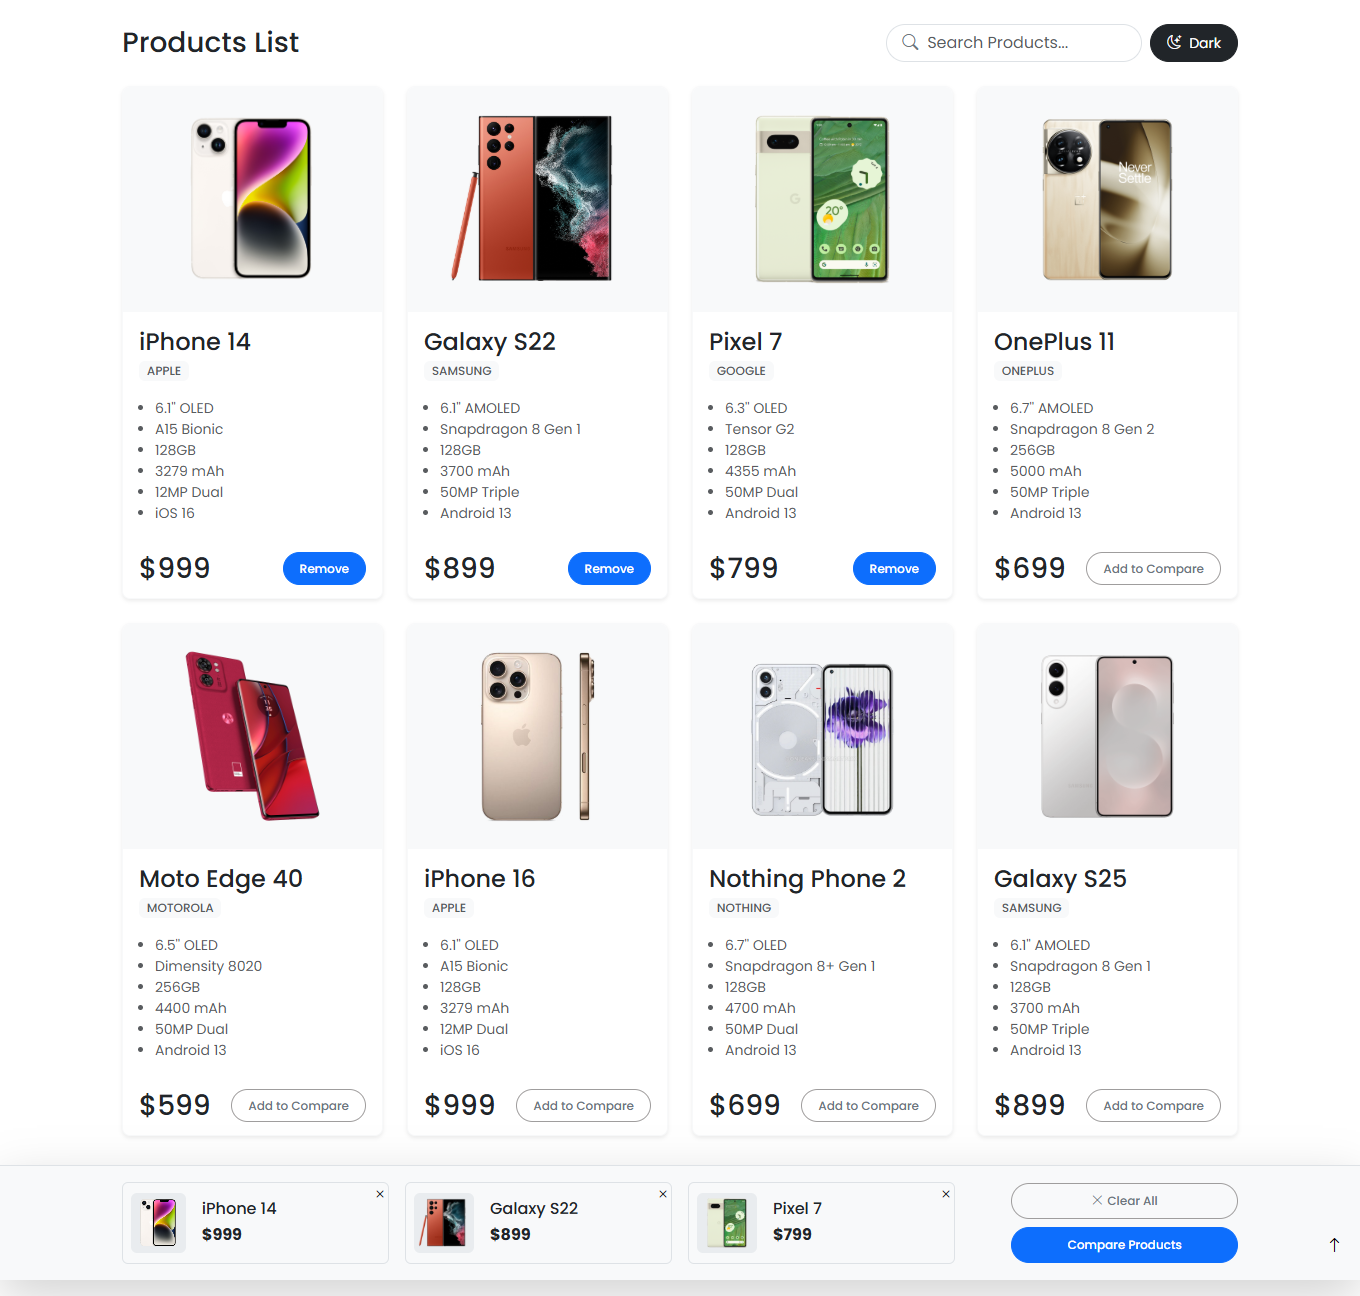
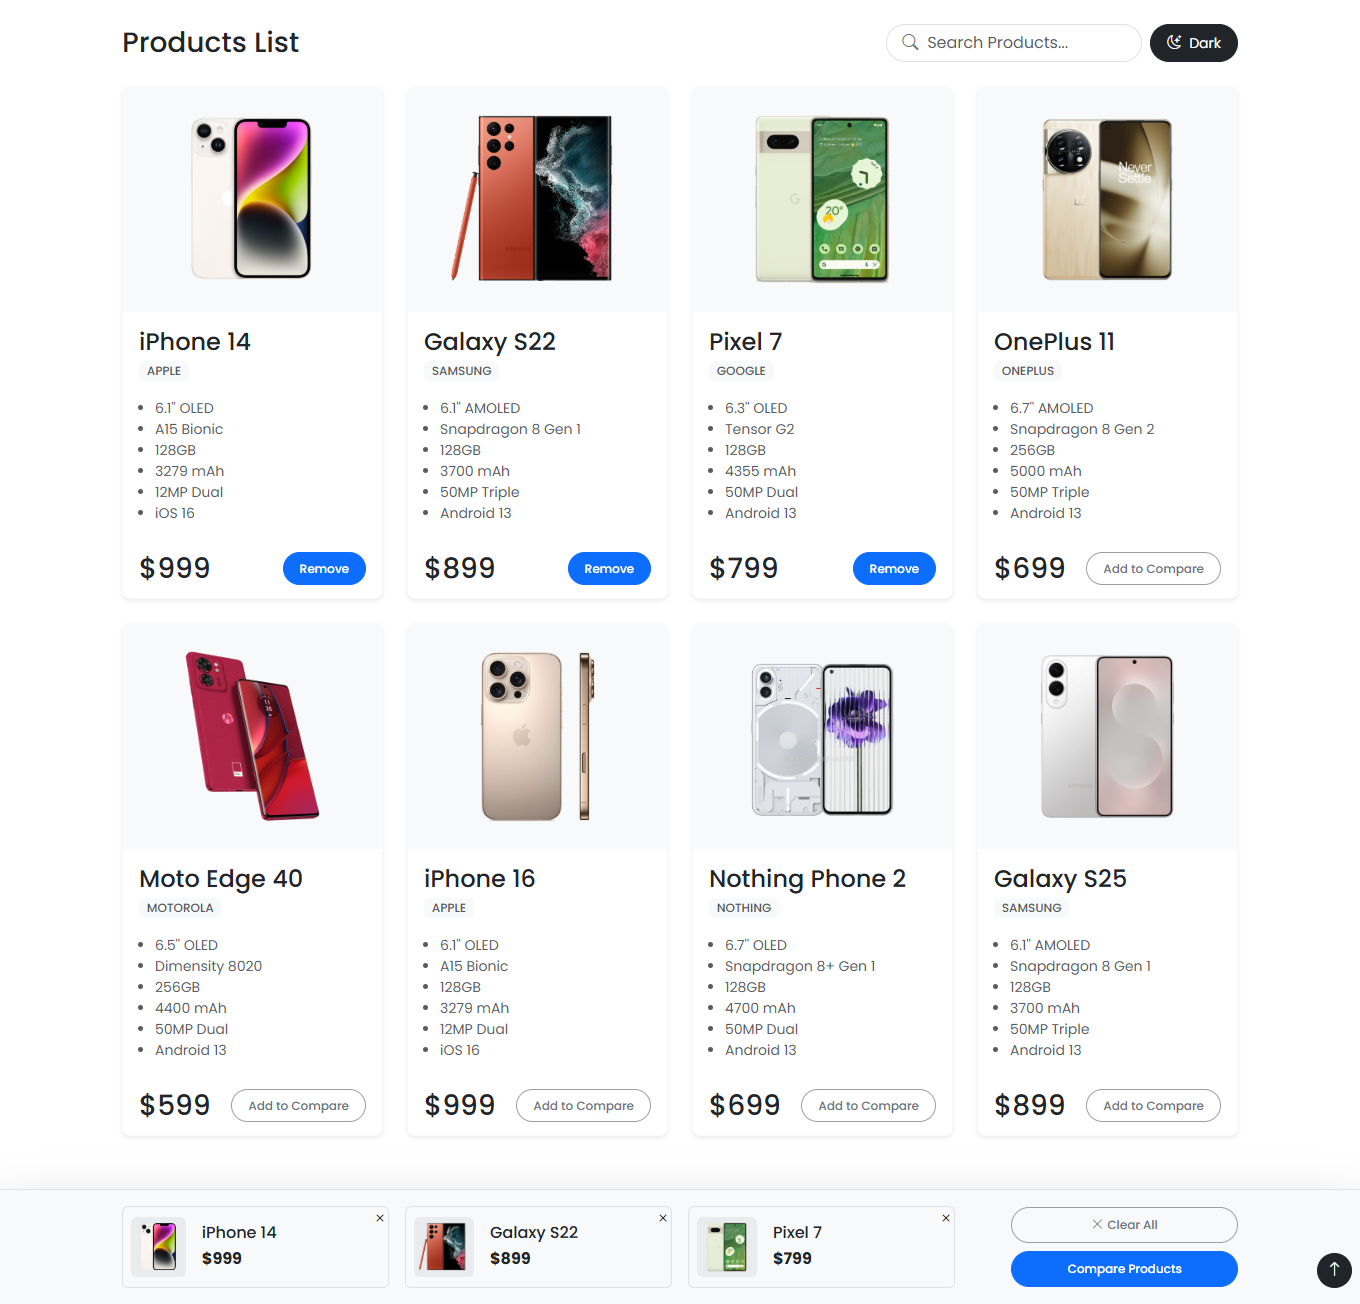
Fixed body margin issue

diff --git a/src/App.jsx b/src/App.jsx
@@ -85,7 +85,7 @@ function App() {
   }, []);
 
   return (
-    <div className={`${compareList.length >=2 ? "pb-5 mb-3":""}`}>
+    <div className={`${compareList.length >=2 ? "pb-6":""}`}>
       {/* Product List Section */}
       <div className={`${compareList.length >=2? "pb-4 pb-sm-5":""}`} ref={productSectionRef}>
         <ProductList
@@ -122,7 +122,7 @@ function App() {
 
       {/* Scroll to top/back button (shown on larger screens) */}
       <button
-        className="btn btn-light rounded-circle mb-3 position-fixed end-0 bottom-0 m-2 z-1 d-none d-sm-flex align-items-center justify-content-center"
+        className="btn btn-dark rounded-circle mb-3 position-fixed end-0 bottom-0 m-2 z-1 d-none d-sm-flex align-items-center justify-content-center"
         onClick={onBack}
         style={{
           maxWidth: "35px", maxHeight: "35px",

diff --git a/src/index.css b/src/index.css
@@ -125,6 +125,9 @@ button:focus-visible {
   background: hsl(45.97deg 38.19% 40%) !important
 }
 
+.pb-6 {
+    padding-bottom: 4.5rem !important;
+}
 
 @media (prefers-color-scheme: light) {
   :root {
